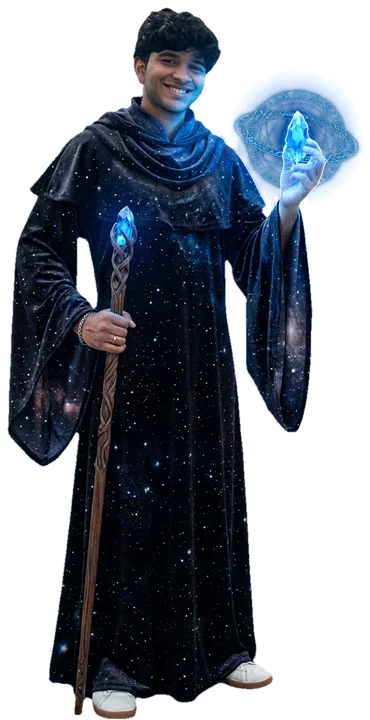
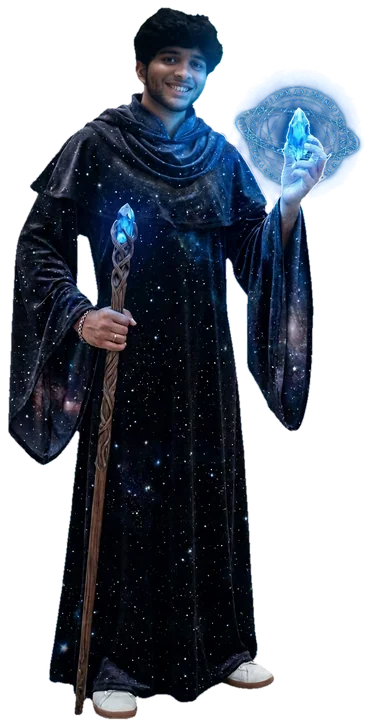
Figure from the approved face (edit-m2), cut by the matte script; sizes updated

diff --git a/src/data/content.js b/src/data/content.js
@@ -78,22 +78,25 @@ export const welcome = {
   figure: {
     src: '/holo/wizard-1.webp',
     phone: '/holo/wizard-1-phone.webp',
-    width: 617,
+    width: 619,
     height: 1200,
     alt: 'A hologram of Vidyut, smiling, in a long robe of stars, a wooden staff in one hand and a glowing crystal in the other',
   },
   /* His work, as small projections at the sides of the first screen, in the same
-     blue light as his own. They phase in and out in this order. `at` is the seat
-     (l1 to l3 down the left, r1 to r3 down the right). A build shows its ring thumbnail
+     blue light as his own, at different depths (a wide window shows all eight; a
+     phone four, taking turns). `at` is the seat (l1 to l4 down the left, r1 to r4
+     down the right). The fact is the one gold plate: gold is for awards. A build shows its ring thumbnail
      (/builds/ring/<id>-320.webp), the crew one Master Agents portrait, the fact the
      same "5× hackathon winner" the hero credential states. Decoration: aria-hidden. */
   hub: [
     { at: 'l1', kind: 'build', id: 'prismai', label: 'PrismAI' },
     { at: 'r1', kind: 'build', id: 'duelwise', label: 'DuelWise' },
-    { at: 'l2', kind: 'crew', id: 'orchestrator', label: 'Master Agents' },
+    { at: 'l2', kind: 'build', id: 'snapback', label: 'SNAPBACK' },
     { at: 'r2', kind: 'fact', value: '5×', label: 'hackathon winner' },
     { at: 'l3', kind: 'build', id: 'betterbill', label: 'BetterBill' },
     { at: 'r3', kind: 'build', id: 'terrametric', label: 'Terrametric' },
+    { at: 'l4', kind: 'build', id: 'paper', label: 'arXiv preprint' },
+    { at: 'r4', kind: 'crew', id: 'orchestrator', label: 'Master Agents' },
   ],
 };
 

diff --git a/src/styles/tokens.css b/src/styles/tokens.css
@@ -292,7 +292,7 @@
 
   --fs-name: clamp(58px, min(40px + 8.4vw, 21svh), 168px); /* his name in the hero: two lines, as large as the window allows */
   --hero-holo-w: clamp(210px, 22vw, 300px); /* the hologram figure at the hero's right */
-  --hero-holo-ratio: 0.514; /* that figure's width over its height (welcome.figure) */
+  --hero-holo-ratio: 0.516; /* that figure's width over its height (welcome.figure) */
   --fs-thesis: clamp(24px, 2.5vw, 36px); /* the thesis under it */
   --fs-h2: clamp(38px, 4.6vw, 64px);
   --fs-lead: clamp(22px, 2vw, 28px);

diff --git a/CLAUDE.md b/CLAUDE.md
@@ -108,9 +108,17 @@ framed hologram of the photo, "it shouldn't be a box". The first screen is a pro
   frame or a box, never a row slip or any distortion of the picture (he read one as an eye
   glitch). The shimmer is brightness only. Check "friendly or eerie" with other model
   families, cold, against the plain photo as a control, before shipping a new figure.
-- **One visual language.** The panels at the sides (`welcome.hub`) are projections of the same
-  kind, in CSS (`v4-opening.css`): the same ramp, line pitch, frame split, cone and plate. They
-  take turns, never touch the figure, and are `aria-hidden`.
+- **One visual language.** The panels at the sides (`welcome.hub`, eight on a wide window:
+  builds, the paper, the crew and one gold "5×" plate) are projections of the same kind, in
+  CSS (`v4-opening.css`): the same ramp, line pitch, frame split, cone and plate, at three
+  depths. They never touch the figure and are `aria-hidden`. A phone shows four, taking turns.
+- **The room** (`WelcomeScene.jsx`; Vidyut, Nov 16: the screen with only the avatar was "very
+  empty"). Behind the panels: a floor of light round the plate (rings, spokes, a band of
+  glyphs; placed from `--plate-x/-y/-w`, faded out before the greeting), four small
+  constellations and drifting glyphs at the sides, the limb of a far world low on the left,
+  and motes rising in the beam (in the shader). The panels and the sky shift a few pixels
+  against the pointer (`--px`, `--py`). A phone gets the floor and two constellations.
+  Nothing touches the figure or sits on the greeting; under reduced motion it is all still.
 - **No second act.** There is no ball and no line of speech between him and his name. On Enter
   (a clock, `KNOTS` in `Welcome.jsx`) or on scroll, two curtains of light close over the figure
   (it turns to light as they come and is never squeezed), leave one vertical beam, and the
